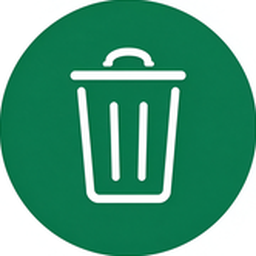
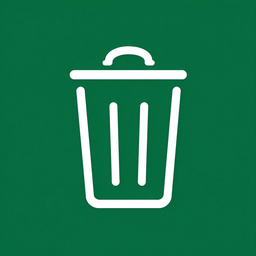
Add files via upload

diff --git a/plugins.v2/cleanuninstall/__init__.py b/plugins.v2/cleanuninstall/__init__.py
@@ -15,7 +15,7 @@ class CleanUninstall(_PluginBase):
     # 插件描述
     plugin_desc = "无痕卸载插件"
     # 插件图标
-    plugin_icon = "https://raw.githubusercontent.com/SixOrg/MoviePilot-Plugins/main/plugins.v2/cleanuninstall/icon.png"
+    plugin_icon = "cleanuninstall.png"
     # 插件版本
     plugin_version = "1.0"
     # 插件作者
